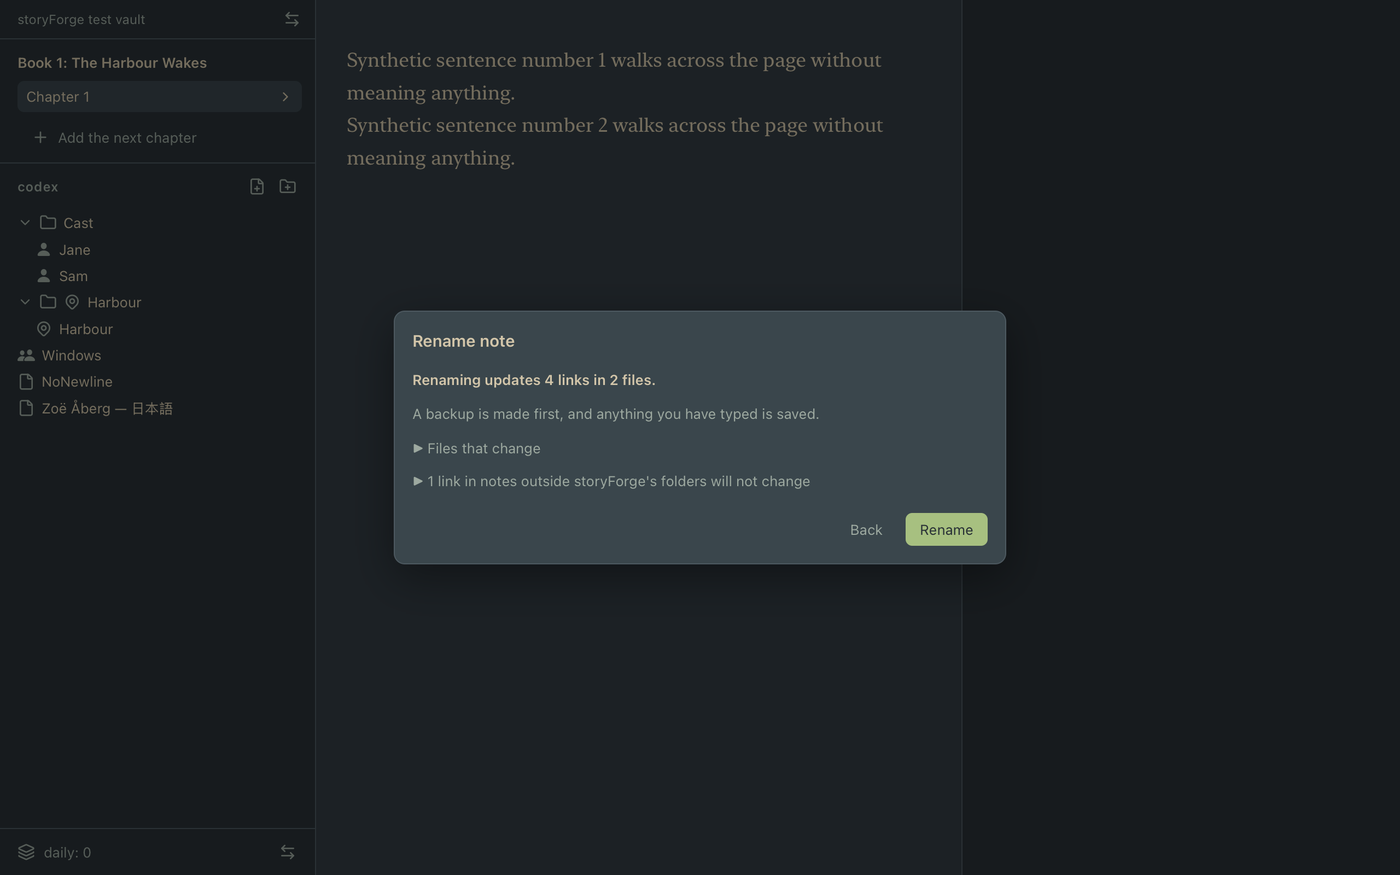
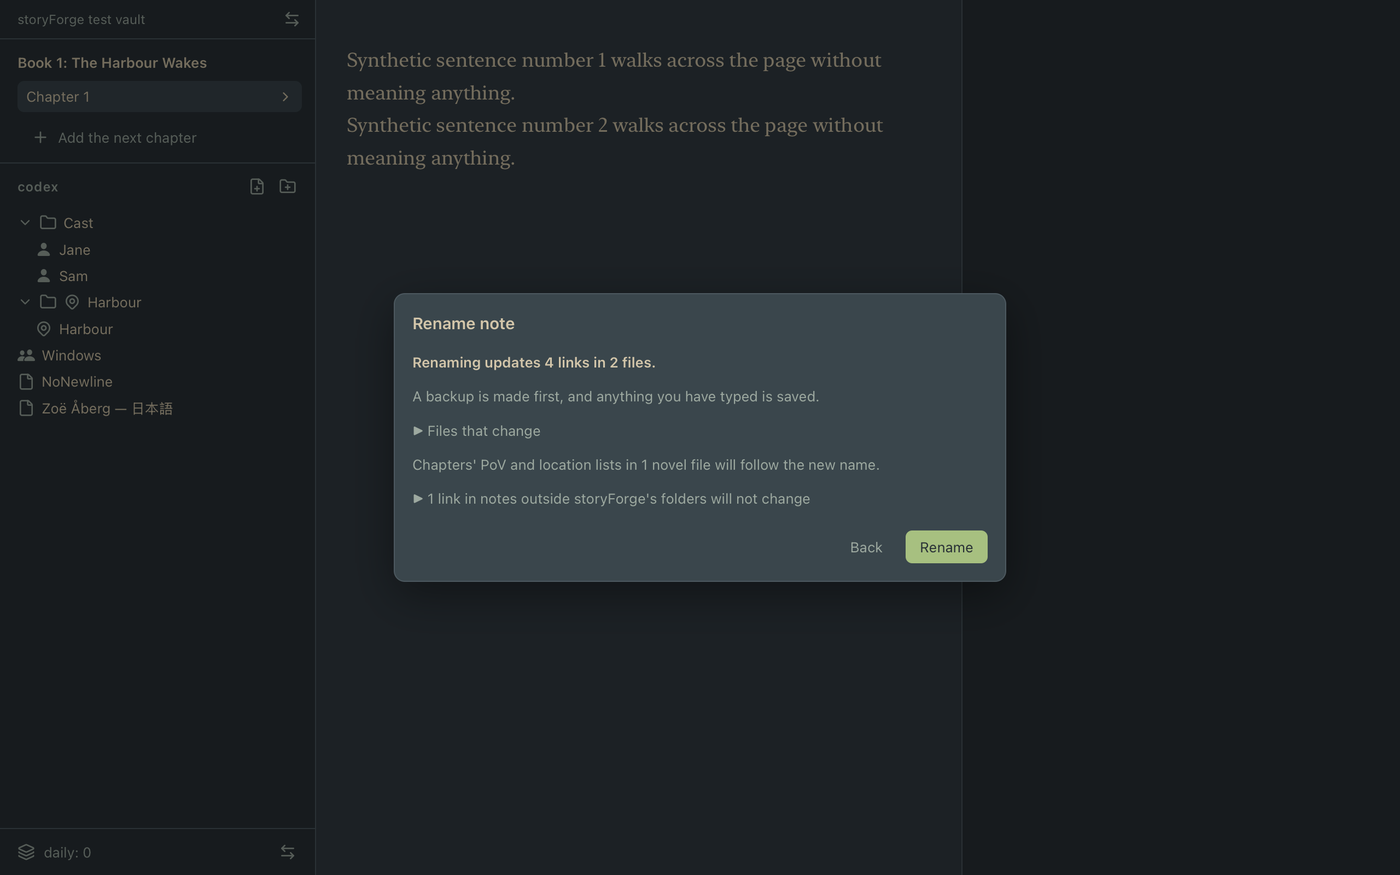
Story shape: docs, report, screenshots, CHANGELOG, version 0.12.0
Placeholders and spacing fixed after the screenshots.

Changed region(s): [[0.2812, 0.3125, 0.7188, 0.5938], [0.2812, 0.5625, 0.7188, 0.6875]]

diff --git a/test/ui/screens.ui.ts b/test/ui/screens.ui.ts
@@ -42,6 +42,19 @@ test.describe("the screens around the faces", () => {
 		await expect(d).toHaveCount(0);
 	});
 
+	test("a Codex note renamed while the app was closed: the summary says its PoV and location lists followed", async ({ page }) => {
+		await openProject(page);
+		await page.evaluate(() => window.__app.controller.teardown());
+		await page.evaluate(() => window.__preview.rename("Codex/Jane.md", "Codex/Janet.md"));
+		await page.reload();
+		await page.waitForFunction(() => document.documentElement.dataset.ready === "true");
+		await page.locator("[data-recent='0']").click();
+		const d = dialog(page);
+		await expect(d.getByText("Codex/Jane.md is now Codex/Janet.md (PoV and location lists in 1 novel file followed it)")).toBeVisible();
+		await shot(page, "shape-summary-references");
+		expect(await onDisk(page, "_story-library/novel-aaa.md")).toContain("default-pov-path: Codex/Janet.md");
+	});
+
 	test.describe("renaming a Codex note", () => {
 		test("the name is checked as it is typed, with the reason", async ({ page }) => {
 			await openProject(page, withLinks(page));
@@ -70,6 +83,7 @@ test.describe("the screens around the faces", () => {
 			await expect(d.locator(".sf-plan-headline")).toHaveText("Renaming updates 4 links in 2 files.");
 			await expect(d.getByText("in notes outside storyForge's folders will not change")).toBeVisible();
 			await expect(d.getByText("A backup is made first")).toBeVisible();
+			await expect(d.getByText("PoV and location lists in 1 novel file will follow the new name.")).toBeVisible();
 			await shot(page, "rename-plan");
 			// nothing has changed yet
 			expect(await onDisk(page, "Codex/Jane.md")).toContain("aliases");
@@ -98,6 +112,12 @@ test.describe("the screens around the faces", () => {
 			expect(await onDisk(page, "Codex/Janet.md")).toContain("custom-key: kept");
 			expect(await onDisk(page, CH2)).toBe("Meet [[Janet]] and [[Janet#Facts|her]] and ![[Janet]].\nA code sample: `[[Jane]]`\n"); // the link in the code sample is left alone
 			expect(await onDisk(page, "Codex/Sam.md")).toBe("Friend of [[Janet]].\n");
+			// The chapters' PoV and the default PoV follow the note, by path and name.
+			const novel = await onDisk(page, "_story-library/novel-aaa.md");
+			expect(novel).toContain("default-pov-path: Codex/Janet.md");
+			expect(novel).toContain("default-pov-name: Janet");
+			expect(novel).toContain("Codex%2FJanet.md=Janet");
+			expect(novel).toContain("pov-path:\n      - Codex/Janet.md");
 			await expect(page.locator(".sf-codex-file", { hasText: "Janet" })).toBeVisible();
 			await expect(page.locator(".sf-codex-file", { hasText: /^Jane$/ })).toHaveCount(0);
 		});

diff --git a/test/ui/overviews.ui.ts b/test/ui/overviews.ui.ts
@@ -210,6 +210,24 @@ test.describe("the novel overview", () => {
 		await expect(novelOverview(page)).toBeVisible();
 	});
 
+	test("screenshots for the report: the three sizes and the picker", async ({ page }) => {
+		const o = novelOverview(page);
+		const cards = o.locator(".sf-card");
+		await cards.nth(0).locator(".sf-card-chevron").click();
+		await expect(cards.nth(0)).toHaveAttribute("data-tier", "collapsed");
+		await cards.nth(0).locator(".sf-card-chevron").click();
+		await expect(cards.nth(0)).toHaveAttribute("data-tier", "bar");
+		await cards.nth(1).locator(".sf-card-chevron").click(); // collapsed
+		await expect(cards.nth(1)).toHaveAttribute("data-tier", "collapsed");
+		await expect(cards.nth(2)).toHaveAttribute("data-tier", "extended");
+		await shot(page, "shape-novel-overview-mixed");
+		await o.locator('.sf-size-option[data-size="extended"]').click();
+		await shot(page, "shape-novel-overview-extended");
+		await o.locator('.sf-card[data-chapter="ch-a5.md"]').getByRole("button", { name: /^Choose pov/i }).click();
+		await expect(page.getByRole("dialog")).toBeVisible();
+		await shot(page, "shape-picker");
+	});
+
 	test("the chevron cycles one card's size; the size control sets them all and shows none when mixed; the bar still opens the chapter", async ({ page }) => {
 		const o = novelOverview(page);
 		const card = o.locator(".sf-card").first();
@@ -390,6 +408,7 @@ test.describe("the novel overview", () => {
 		await page.evaluate((b) => window.__preview.armCover(b), ONE_PIXEL_PNG);
 		await box.click();
 		await expect(box).toHaveAttribute("data-state", "image");
+		await shot(page, "shape-series-overview");
 		await expect.poll(() => page.evaluate((f) => window.__preview.read(f), "_story-library/series.md")).toContain("cover-image: cover.png");
 		expect(await page.evaluate(() => window.__preview.readBase64(".trash/_backstage/storyforge/_series/cover.jpg"))).not.toBe("");
 	});

diff --git a/src/ui/overviews/overviews.css b/src/ui/overviews/overviews.css
@@ -91,7 +91,7 @@ button.sf-heat-cell { cursor: pointer; }
 .sf-overview-row .sf-section-field { margin-left: 0; }
 
 .sf-overview-head { display: flex; gap: 16px; align-items: stretch; margin-bottom: 12px; }
-.sf-overview-head .sf-section-field { flex: 1; min-height: 100%; margin: 0; }
+.sf-overview-head .sf-section-field { flex: 1; min-height: 144px; margin: 0; }
 .sf-cover-column { display: flex; flex-direction: column; gap: 4px; align-items: flex-start; flex: none; }
 .sf-cover { all: unset; box-sizing: border-box; flex: none; width: 96px; height: 144px; display: flex; align-items: center; justify-content: center; overflow: hidden; cursor: pointer; border: 1px dashed var(--purpose-border); border-radius: 4px; background: var(--purpose-raised-bg); }
 .sf-cover[data-state="image"] { border-style: solid; }
@@ -103,3 +103,5 @@ button.sf-heat-cell { cursor: pointer; }
 .sf-cover-remove { all: unset; cursor: pointer; font-size: 12px; color: var(--purpose-text-muted); border-radius: 3px; }
 .sf-cover-remove:hover { color: var(--purpose-accent); }
 .sf-cover-remove:focus-visible { outline: 2px solid var(--purpose-focus-ring); outline-offset: 2px; }
+.sf-ref-row[data-row="default-pov"] { margin-bottom: 14px; }
+.sf-note-field::placeholder { color: var(--purpose-text-muted); opacity: 0.7; }

diff --git a/src/ui/overviews/novelOverview.ts b/src/ui/overviews/novelOverview.ts
@@ -178,6 +178,7 @@ export function mountNovelOverview(host: HTMLElement, model: AppModel): () => vo
 					written: (stored) => plots.set(key, stored),
 				});
 				field.element.dataset.plot = key;
+				field.element.placeholder = "Plot note";
 				card.append(field.element);
 				void readChapterPlot(project, book, key).then((p) => {
 					plots.set(key, p);

diff --git a/AGENTS.md b/AGENTS.md
@@ -2,7 +2,7 @@
 
 storyForge is becoming a standalone desktop app (Tauri 2, macOS first). This repository holds the app's **data core** (a plain TypeScript library over a folder of markdown, no dependency on Obsidian) and its **Tauri shell** (a Rust side that owns the disk, a file watcher, settings and app life) and its **v1 interface** (plain TypeScript and DOM, no framework) with the **numbers** (the series and novel overviews and the word-count history, read-only) and **writing sessions** (recorded when they end, shown in the history view). The design decisions live in the project's `storyForge app – decisions.md`; read it before changing anything structural. The Obsidian plugin continues, unchanged, as `storytellingForge`; its last storyForge-repo incarnation (with its interface) is the git tag `plugin-harness-final`.
 
-Reports to read first: `docs/strip-report.md` (what was removed from the plugin and why), `docs/project-handle.md` (the design of the core, with the review rulings in §10), `docs/data-core-report.md` (what was built, and every difference from the plugin's behaviour) and `docs/safety-core.md` with `docs/safety-core-report.md` (the prose writer, recovery, backups, reconciliation, open/create and link rewriting), then `docs/tauri-shell.md` (§12 rulings, §13 as built) and `docs/tauri-shell-report.md`, then `docs/interface.md` (§12 rulings, §13 and §14 as built) and `docs/interface-report.md`, then `docs/numbers.md` (§11 rulings, §12 as built) and `docs/numbers-report.md`, then `docs/sessions.md` (§10 rulings, §12 as built) and `docs/sessions-report.md`.
+Reports to read first: `docs/strip-report.md` (what was removed from the plugin and why), `docs/project-handle.md` (the design of the core, with the review rulings in §10), `docs/data-core-report.md` (what was built, and every difference from the plugin's behaviour) and `docs/safety-core.md` with `docs/safety-core-report.md` (the prose writer, recovery, backups, reconciliation, open/create and link rewriting), then `docs/tauri-shell.md` (§12 rulings, §13 as built) and `docs/tauri-shell-report.md`, then `docs/interface.md` (§12 rulings, §13 and §14 as built) and `docs/interface-report.md`, then `docs/numbers.md` (§11 rulings, §12 as built) and `docs/numbers-report.md`, then `docs/sessions.md` (§10 rulings, §12 as built) and `docs/sessions-report.md`, then `docs/story-shape.md` (§12 rulings, §13 as built) and `docs/story-shape-report.md`.
 
 ## Layout
 
@@ -21,7 +21,10 @@ Reports to read first: `docs/strip-report.md` (what was removed from the plugin 
 - **Interface rules:** the interface reaches the core only through its APIs: prose is written only through `ProseSession` (never from a view), Codex renames go through `OpenedProject.renameNote`. **No colour outside `src/ui/theme/`**: components use named purposes (`--purpose-*`); `src/ui/__tests__/purposes.test.ts` fails on a hex, `rgb(` or palette variable anywhere else. Copy is British English in the plugin's lexicon (`docs/text-labels.md`). New dependencies need a ruling; the interface's are CodeMirror 6, Lucide and (development only) Playwright. A new Rust command may only read or reveal, or set the app's own menu items.
 
 - **Writing sessions** (docs/sessions.md): only the author's own edits in a chapter editor count (through `ProseSession.setBody`; never reloads, link rewrites, reconciliation or Codex notes). The project folder is written **only when a session ends**, and only under `_backstage/storyforge/sessions/` (one file per month per computer, named with a random id, never the Mac's name); the session in progress lives in the app's data folder (`session/<sha>`). Typing never waits on any of it. `wordcount.md` is never touched by session tracking. Editing and short are worked out when shown, from the settings; unreliable (a paste or drop adding over 30 words) and recovered are stored. Unreliable and editing sessions are left out of the storytelling figures (the history view's days, weeks and heatmaps, and the stats panel's today and week), never out of chapter, novel or series counts or any bar. A session file that can't be read is never rewritten: the next session goes to a sibling. Ending the session is a step in the close path, after the editors flush and before the snapshot, and counts as watchdog progress.
-- **The overviews and the history view only read.** They write nothing (a test compares the project folder byte for byte); the only edits reachable from them are planned lengths (the shared `lengthFields.ts`) and opening a chapter. The overview is a layer over a still-mounted editor, which is `inert` while covered. Bars follow decision 8: data blue, overrun orange beyond a `bg_dim` notch, never colour alone; net-loss days are never red.
+- **The overviews and the history view write only the author's own words and choices** (docs/story-shape.md). Opening any of them writes nothing (a test compares the project folder byte for byte). What can be written from the novel and series overviews: planned lengths (the shared `lengthFields.ts`), plot notes, the novel's synopsis and the series description (through `FieldState`/`textField`, committed on blur and on every close route, never per keystroke), chapters' PoV and location lists and the default PoV (through the Codex picker), and covers. Every field write is compare-then-write against what the field last saw (`core/fieldWriter.ts`, the comparison inside the same lock as the write); a conflict, a refusal, a throw or a close that cuts a commit off puts the author's text in a recovery file (plot notes under `recovery/<book>/` as `<chapter> (plot note)`, synopsis and description under `recovery/_fields/`), never only in the field. A section write (`## Synopsis`, `## Description`) matches only a line that is exactly the heading, refuses a duplicated heading (the field is then read-only) and changes only that section; an empty field removes it. Card sizes are navigation state (machine settings). The overview is a layer over a still-mounted editor, which is `inert` while covered. Bars follow decision 8: data blue, overrun orange beyond a `bg_dim` notch, never colour alone; net-loss days are never red.
+- **Covers** go through two Rust commands: `pick_cover(target)` (the target is the series or a book code, never a path; Rust shows the open panel, accepts PNG, JPEG, GIF or WebP by their first bytes up to 10 MB, writes under a temporary name, retires any existing `cover.<ext>` to `.trash/`, always, and moves the new file in create-only) and `read_cover(target, filename)` (read-only, exact `cover.<ext>` names, 10 MB). TypeScript sets or clears `cover-image` and retires the file on removal; there is no `clear_cover`. Only `ui/model.ts` calls `pickCover` and only `ui/overviews/cover.ts` calls `readCover` (architecture test).
+- **A Codex rename re-points references:** chapters' PoV and location lists and the default PoV are matched on the stored path (case and Unicode folded, never the name), updated in the form they already have, left alone when a note is archived, pruned or moved out (they show as missing), and a novel file that can't be rewritten is skipped and listed (`rekeyCodexNoteReferences`).
+- **The close commits fields first:** `controller.registerCloseCommit` / `commitOnClose.ts`. A field being edited registers while it has focus; the close commits them before the editors flush, sends `close_progress`, and if a commit outlasts the limit calls its `rescue`. Planned lengths are the one exception where a lost number at quit is accepted (decision 42). `npm run test:quit` runs every route with text typed in a chapter and in a plot note, confirms the text reached the field first, and reports "not typed" retries separately from a loss.
 
 - **The window never touches the disk.** It has no file-system, shell, network or dialog permission; it calls only this app's narrow Rust commands. Rust holds the project root (chosen by the native picker or the recent list; the window can never send a path back to be treated as the project folder). Every write passes the Rust guard. The app makes no network requests.
 - **Every catchable quit runs the one close** (`request_close` in `src-tauri/src/lib.rs`: stop the quit, the window flushes and saves, `quit_ready`, within 5 s; the 15 s watchdog counts from the last `close_progress`, which the window sends from real work only). Cmd+Q, the red button, the Dock's Quit, Log Out, Shut Down and SIGTERM/SIGHUP/SIGINT all reach it; the system-quit route is `applicationShouldTerminate:` added in `platform.rs`. A new route must reach `request_close`, and `finish_quit` is the only exit. `npm run test:quit` (Mac only) checks it before every release; `src-tauri/tests/quit_hook.rs` pins the tao version it was proved against.

diff --git a/docs/story-shape-report.md b/docs/story-shape-report.md
@@ -1,0 +1,61 @@
+# Story shape (Brief 8): report
+
+Version 0.12.0, branch `shape`. Design and rulings: `docs/story-shape.md` (§12 rulings, §13 as built).
+
+## What was built
+
+| Commit | What |
+|---|---|
+| `9bf3a80`, `21595ca` | the design doc and the H1 rulings |
+| `87c5872` | chapter card sizes, the chevron and the size control |
+| `0f3014e` | plot notes: commit on blur, compare-then-write, recovery |
+| `e0ad6ec` | Codex renames re-point PoV, location and default-PoV references |
+| `5fc29ec` | PoV and Location rows, the Codex picker, the default PoV |
+| `3f5aac3` | the synopsis and series description as strict section writes |
+| `ed9cfdb` | covers: `pick_cover` and `read_cover`, cover boxes in both overviews |
+| `7dc68df` | fields being edited are committed by every close and quit route |
+| `0e531ee` | rescue of field text when the close cuts a commit off; the quit test tells "not typed" from "lost"; disk-safety operations for the field commits |
+| this commit | docs, report, screenshots, version 0.12.0 |
+
+## Screenshots
+
+- Novel overview, cards in all three sizes (Chapter 1 bar, The Storm collapsed, Chapter 2 extended): `docs/interface-shots/shape-novel-overview-mixed.png`
+- All cards extended, with the size control showing Extended: `docs/interface-shots/shape-novel-overview-extended.png`
+- The series overview with a cover chosen, the description and each novel's synopsis: `docs/interface-shots/shape-series-overview.png`
+- The PoV picker: `docs/interface-shots/shape-picker.png`
+- The rename dialog's plan, with the new line saying how many novel files will follow the new name: `docs/interface-shots/rename-plan.png`
+- The open-time summary with the new line about PoV and location lists following a renamed note: `docs/interface-shots/shape-summary-references.png`
+
+## Behaviour that differs from 0.17.1, and why
+
+- Clicking a card's bar opens the chapter; a chevron changes the card's size (decision 41). The plugin cycled the size by clicking the bar.
+- The size control for every card at once is new (decision 41).
+- There is no narrator fallback: a chapter without its own PoV shows the novel's default PoV, muted and labelled, and it is never written into the chapter.
+- Replacing or removing a cover retires the old file to `.trash/`; 0.17.1 overwrote or deleted it.
+- A Codex rename updates PoV, location and default-PoV references by path and name; deleting, archiving or pruning a note leaves them to show as missing instead of dropping them.
+- Plot notes keep leading whitespace; an empty synopsis or description removes the section instead of leaving a heading; a duplicated heading makes the field read-only.
+- Fields are committed on blur and on every close and quit route; a conflict or failure puts the author's words in a recovery file, never over the file.
+
+## Hold points hit
+
+- **The survey said renames didn't rekey PoV and location references. That was wrong:** the reconciler and the rename already did, though not as ruled. No hold was needed; `rekeyCodexNoteReferences` brought them in line (`e0ad6ec`). No new kind of write at open.
+- No other hold point was reached: nothing needed a new key, file or folder, a window permission beyond the two cover commands, or a cut feature.
+
+## Review findings and what they changed
+
+- **Commit 7's review found a gap I had left:** a hung field commit was cut off at the limit with the author's text still only in the field. Fixed in `0e531ee`: `FieldState.rescue` and a rescue step in the close, with unit tests for a hung commit, a throwing commit, a failed recovery and words typed during a commit.
+- **The quit test's first run with the new cases had two chapter-route failures** (SIGTERM and SIGHUP: the typed text never appeared, no session file). It passed on every later run, so it was most likely the keystrokes not reaching the editor, but that was not proved. The script now reads the field's content back through accessibility before it quits, waits for real focus, retries with a new marker, and reports "not typed" separately from a loss; a case that never typed is a failure, not a pass.
+
+## Surprises
+
+- The screenshots again found what the tests passed: the synopsis was one line tall instead of filling the cover's height, an empty plot note on a collapsed card was an invisible gap, and the Default PoV row sat flush against the progress bar. All fixed before the commit.
+- My plot-note class clashed with an existing `sf-field` class used by the length editor; renamed to `sf-note-field`.
+- Retiring a cover needed no guard change: `create-file` and `retire` already allow backstage cover paths.
+
+## Tests
+
+1,358 core tests, 151 WebKit interface tests and the Rust workspace tests, all passing. New: core tests for plot-note round-trips, strict sections and field conflicts; `FieldState` unit tests; ten Rust cover tests; WebKit tests for sizes, plot notes, pickers, missing references, covers, read-only, rename and the close; disk-safety operations for the field commits and cover names.
+
+## Kenny's check (Brief 8 §7)
+
+Pending, or to be recorded as waived. Item 2 (type a plot note, start another, press ⌘Q mid-sentence, reopen) is worth doing by hand: it is the same thing the quit test covers.

diff --git a/docs/story-shape.md b/docs/story-shape.md
@@ -147,3 +147,18 @@ The survey is accepted. These supersede anything above that differs.
 Also: stamping `chapter-id`/`chapter-title` when a plot note is written is fine (0.17.1 behaviour, gives stable ids for session files). A picker still open at quit is discarded.
 
 Next: commit 2 (card sizes); rekey in its own commit before commit 4; the close-commit step runs `npm run test:quit` before it is committed.
+
+## 13. As built
+
+What differs from the design above (§1–§11) and from the rulings (§12). The report, `docs/story-shape-report.md`, has the screenshots and the checks.
+
+- **The survey's "hold" was a mistake.** Codex renames and the reconciler already re-pointed chapters' PoV, location and default-PoV references (`rekeyChapterPovReferences` and `rekeyChapterLocationReferences`). §1.2 G1 said they didn't. What was missing was agreement with the rulings, so `rekeyCodexNoteReferences` replaced both: path matching ignoring case and Unicode, path and name updated, old forms kept in place, nothing done for archive, prune or deletion (references show as missing), and a novel file that can't be rewritten skipped and listed. No new kind of write at open.
+- **Recovery for field text** lives in `recovery.ts` (`recoverPlotNote`, `recoverFieldText`) and is reached through `fieldWriter.ts`, so `recovery.ts` stays the only caller of `createRecovery` and the architecture test needed no new entry for it. Plot-note recovery names are `<chapter> (plot note) <stamp>.md`.
+- **`FieldState`** (`src/ui/overviews/fieldState.ts`) holds the field's life without a DOM: what the disk held when the author began, whether there is unwritten text, `flush`, and `rescue`. Added after review of commit 7: a commit that throws, or that the close has to cut off, now sends the author's words to a recovery file. Before that a hung commit left them only in the field.
+- **Covers:** the two commands as ruled; `sf-bridge` (development and tests only) accepts `pick_cover` with a `source` file so the preview can stand in for the open panel. The window never names a path.
+- **Section writes:** `readSection` / `writeSection` in `sectionBody.ts`; text with a line starting `# ` or `## ` is refused (`SectionContentError`) because it would split the section. The old `extractSection` and `upsertSection` are gone.
+- **The synopsis field** is a plain text area filling the cover's height (144 px).
+- **The picker** is a dialog with a filterable checklist (`ui/kit/codexPicker.ts`).
+- **Card sizes** are machine state (`cardTiers`, `<book>/<file>`, extended not stored). The plugin's stored sizes are not imported (ruling 8).
+- **Disk-safety:** operations for the plot-note, synopsis and description commits (a clean write, and a conflict that leaves the file byte-identical and puts the text in exactly one recovery file), the four cover-name functions, and the rekey.
+- **`npm run test:quit`** runs each route twice (chapter, plot note), confirms the typed text reached the field before quitting, and counts "not typed" retries separately from a loss.

diff --git a/CHANGELOG.md b/CHANGELOG.md
@@ -1,5 +1,18 @@
 # Changelog
 
+## Unreleased — the story shape (0.12.0)
+
+The story half of the overviews returns, on top of the numbers. Unlike the numbers, it writes: plot notes, synopses, the series description, PoV and location lists and covers, all into keys, sections and files the 0.17 layout already has. No new key, file or folder; `format-version` is unchanged. See `docs/story-shape.md` (rulings in §12, as built in §13) and `docs/story-shape-report.md`.
+
+- New: chapter cards in three sizes (bar; bar and plot note; bar, PoV, Location, Length and plot note) with a chevron on each card and a size control for all of them (kept per project on this computer). Clicking the bar still opens the chapter.
+- New: plot notes, the novel's synopsis and the series description are written in place, committed when the field loses focus and on every close and quit route; leading spaces survive; a conflict never overwrites: the author's text goes to a recovery file and a notice says so.
+- New: PoV and Location rows with a Codex picker, and the novel's default PoV (shown, muted, on a chapter with no PoV of its own; never written into the chapter). A reference to a note that is gone shows as missing and is never dropped.
+- New: covers for the series and each novel, chosen in the Mac's open panel (`pick_cover`, `read_cover`). The old cover is retired to `.trash/`, never deleted.
+- Changed: a Codex rename now updates the path and name of chapters' PoV and location references and the default PoV, announces how many novel files will follow, and the open-time summary says so. A deleted or archived note's references are left as they are (they show as missing) instead of being dropped.
+- Changed: `## Synopsis` and `## Description` match only an exact heading line, refuse a duplicate heading (the field shows read-only) and an empty field removes the section. Plot notes keep their leading whitespace.
+- Changed: the close commits any field being edited before the editors flush; one that can't land, or hangs, is rescued into a recovery file. The quit test now runs every route with text typed in a plot note too, and tells "never typed" from "typed and lost".
+- Tests: 1,358 core tests, 151 WebKit interface tests and the Rust tests, all passing.
+
 ## Unreleased — leftover temporary files (0.11.1)
 
 When the app saves a file it writes a hidden temporary file beside it and swaps it in. A crash, force-quit or power cut at the wrong instant can leave one behind, and one can hold words that exist nowhere else. At open, storyForge now deals with them safely. See `docs/temp-tidy.md` (the investigation, rulings in §8, as built in §9).
